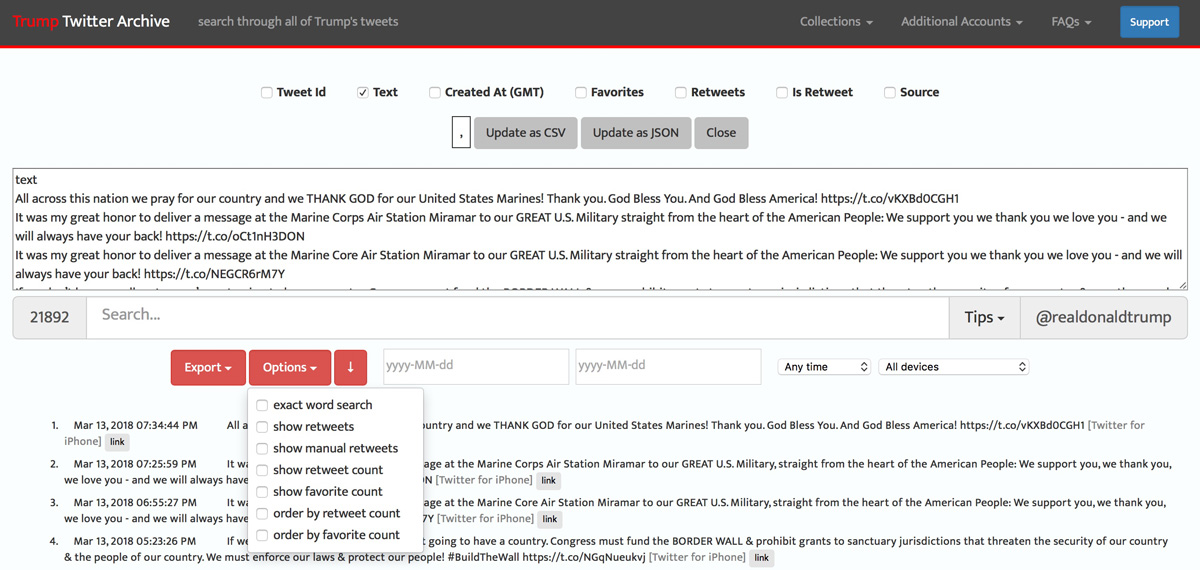
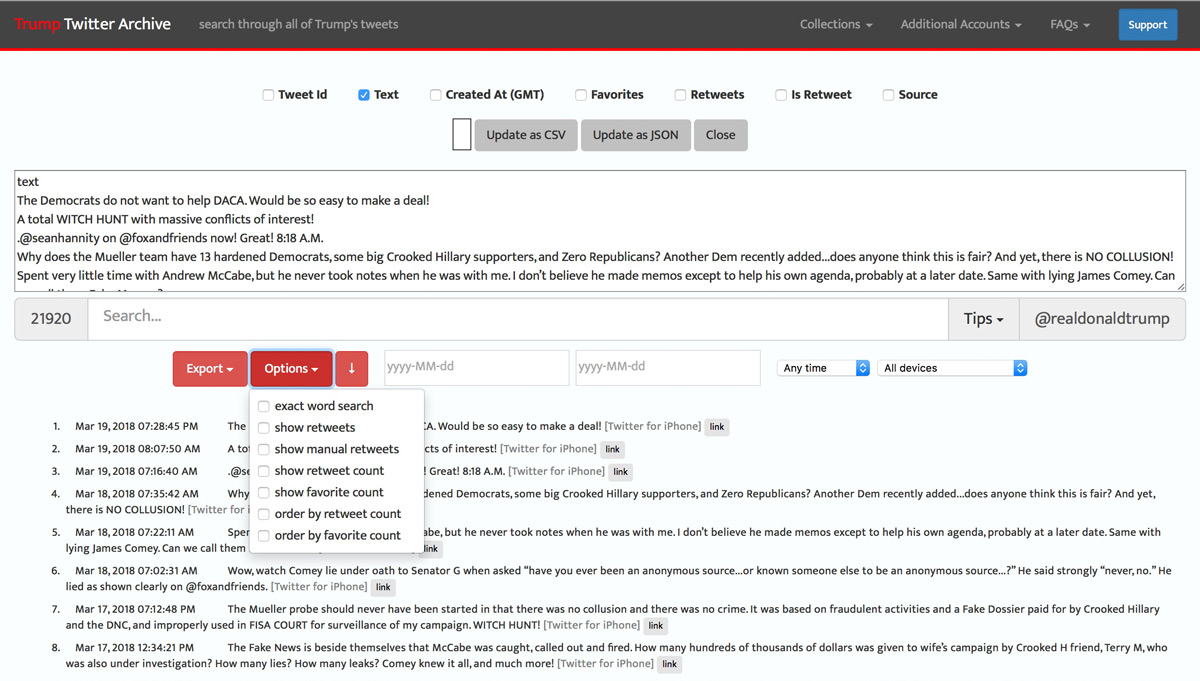
Documentation updates

diff --git a/get-tweets/README.md b/get-tweets/README.md
@@ -18,5 +18,5 @@ Since @realDonaldTrump has more than 30,000 Tweets this method is not suitable :
 ![trumptwitterarchive.com screenshot](./images/readme/trumptwitterarchive.com_screenshot.jpg)
 
 [trumptwitterarchive.com](http://www.trumptwitterarchive.com/archive) lets you download a list of *all* tweets from @realDonaldTrump as CSV.
-Since we don't need any metadata like `Tweet id`, `timestamp`, `#favorites`, `#retweets` you should only export the pure `Text`.
+Since we don't need any metadata like `Tweet id`, `timestamp`, `#favorites`, `#retweets` you should only export the pure `Text` without the `,` separator.
 The archive also contains `retweets` and `manual retweets`. As they do not reflect @realDonaldTrump's style of writing, you should also filter out these Tweets via `Options`.
